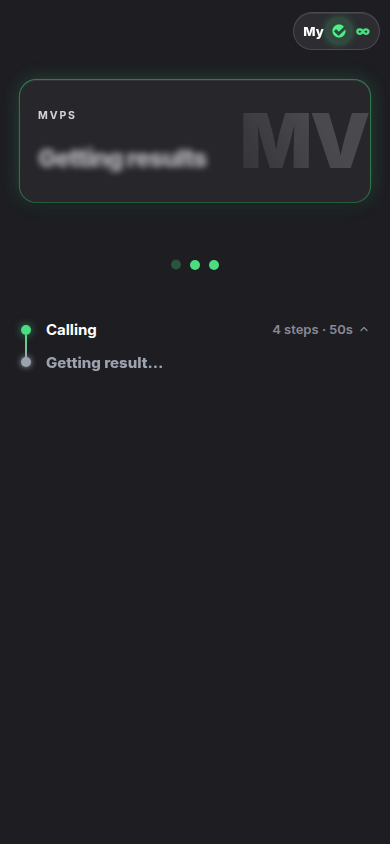
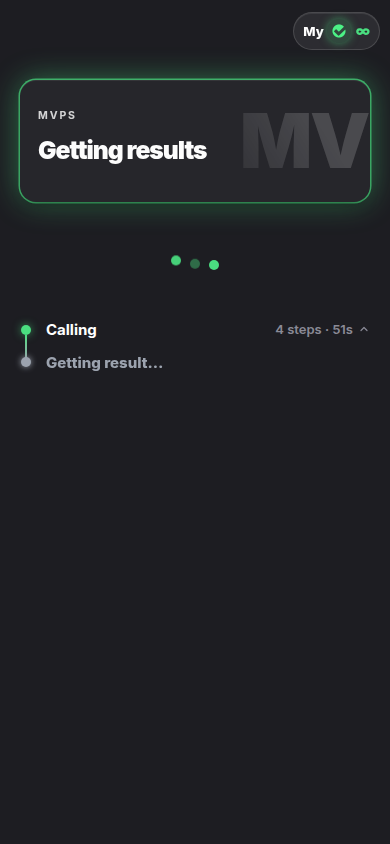
STATE: the timing fix, measured before and after against the robot's own note
Claude-Session: https://claude.ai/code/session_01DDM9bfXsiGGeTmLMgikF6p

diff --git a/docs/STATE.md b/docs/STATE.md
@@ -10,7 +10,7 @@ git. Last updated: 2026-08-06 (the hold fault he found is fixed and on staging; 
 ## The Activity report is honest now (08-06, ON STAGING, driven live). One press on a bar picks that day and stays there. Pressing the same bar again used to clear the day and quietly swap the four counts from that one day to the whole week, which is where your 22 in stock came from, and the green bar vanished with it. The checks listed under the counts are that day's own now, up to six, instead of the same newest checks showing on every day. Store logos there were broken too and the logo chat fixed that separately. **Your move: open My checks, Activity, and tap a few days.**
 ## THE TESTING SHEET DRAWS A CHECK IN THE ORDER IT REALLY HAPPENED (08-06 PM, staging + Admin). The steps and the spoken lines were two separate lists, both rounded off to whole seconds, and the page glued them together by comparing those rounded numbers. That is why three things six seconds apart all showed at 58 seconds, and why Delta's recording drew under the Staff line that answered it. Both lists have always been stamped on one clock down to the millisecond and the part that saves a check was throwing that away. Nothing is thrown away now, and the page puts every row in order once, off that one clock. Proven on the real Admin at your phone's width: every row at or after the row above it.
 - **The other four off your screens, all fixed and driven:** the first row is the test's own name from your locked cards ("Test: Transfer: Charlie requested" on the check I dialed), never the robot's scene name · the status on the screen is now the status the check was filed with, in your own words from the site the check came from, which is what "Nobody answered" over a check the store hung up on really was: Admin reads its status words from the real site and the check came from staging, where three of your statuses do not exist on the real site yet · "Customer charged" is read off the charge stamp on the check itself, and the tool that reads a check's record was never sent that stamp, so it printed "not charged" on every check ever · the status circle is back on the rail at 390px, every marker measured onto one center in a real browser.
-- **PROVEN ON CHECK 345, scene 10, dialed 08-06 7:43 PM:** every row at or after the row above it, row one the card's name, "Staff hung up" matching the record, "Customer not charged" on a check nothing was billed for, all 27 markers on one center. **Untouched on purpose: the scorecard rows that grade Charlie.** **AND THE GREETING'S OWN TIME IS FIXED ON YOUR WORD (08-06 PM):** it drew at 1 second, above the row saying the line was answered at 2 seconds. We do backdate Staff's greeting to when their voice really started, which is right, but that was counted from the moment the audio opened while a check counts from the moment it was placed, about two seconds earlier. Two different starting points, so every greeting was written down two seconds early, and on a store with a long menu it would have been worse. The moment is handed over whole now and the record does its own arithmetic, so nothing can be filed against somebody else's stopwatch. **08-06: the new voice work is wired into mapping and on staging.** A mapping check now sets Charlie up the same way a customer check does, and it does everything a customer check does the moment Staff answer: Delta asks the question, the moment is written down, and the check cannot sit paying for silence. Before this Delta never played on a mapping check, so Charlie had to open cold and speak first, which is the wait you heard on the Fun store check. NOT yet run against a real store: mapping CVS is the next chat's first job.
+- **PROVEN ON CHECK 345, scene 10, dialed 08-06 7:43 PM:** every row at or after the row above it, row one the card's name, "Staff hung up" matching the record, "Customer not charged" on a check nothing was billed for, all 27 markers on one center. **Untouched on purpose: the scorecard rows that grade Charlie.** **AND THE GREETING'S OWN TIME IS FIXED ON YOUR WORD (08-06 PM):** it drew at 1 second, above the row saying the line was answered at 2 seconds. We do backdate Staff's greeting to when their voice really started, which is right, but that was counted from the moment the audio opened while a check counts from the moment it was placed, about two seconds earlier. Two different starting points, so every greeting was written down two seconds early, and on a store with a long menu it would have been worse. The moment is handed over whole now and the record does its own arithmetic, so nothing can be filed against somebody else's stopwatch. **AND EVERY OTHER LINE WAS LATE, which is the one that matters for stitching a check back together.** A line was written down at the moment its WORDS reached us, and words reach us after the sentence has been spoken and typed out, worst of all after a hold, where their audio waits for Charlie to come back before anybody types it. Measured against the robot store's own note of what it said and when, on check 346: an ordinary line landed 3.3 seconds late and the two lines after a hold landed 6.1 seconds late. We already listen to their voice on every scrap of audio for the meter, so we now keep the moment their talking starts and file the line there. Re-measured on checks 347 and 348: every line lands within about a second of when it was really said, and on check 348 their answer draws just before the row that says they came back, which is the truth, since their voice is what ended the hold. **08-06: the new voice work is wired into mapping and on staging.** A mapping check now sets Charlie up the same way a customer check does, and it does everything a customer check does the moment Staff answer: Delta asks the question, the moment is written down, and the check cannot sit paying for silence. Before this Delta never played on a mapping check, so Charlie had to open cold and speak first, which is the wait you heard on the Fun store check. NOT yet run against a real store: mapping CVS is the next chat's first job.
 ## The support chat is being tested like the robot store tests checks (08-05/06). A robot customer runs real conversations against the staging chat and every reply is scored out of 10: `docs/specs/support-chatbot-testing/SCORECARD.md`. Round 1 scored 250 out of 270. Fixed and live: asking for a person used to answer "tap Help in the footer", which reopens that same chat, so nobody could reach a human; the chat said an endless hold is free when your ruling charges it, fixed in the chat AND in six pages of the book on your go; the Spanish result screen said "Sin cargo" on three statuses we charge. Round 2 signs in and uses the 291 checks already on your account, placing none, and found FIVE money bugs, all fixed: a perfect check that answered in 24 seconds was refundable on request, a hold was refunded so we charged and refunded in one breath, and twice the chat answered about a different check than the one you opened it from. **Your move: GameStop. You say it should not be callable and the store list serves it as callable, so the chat says yes to it.**
 ## The reply lock is on staging, the cap is 25 lines now, and a piece of work you ask for is not capped at all (08-06). **Replies were scrunching words in at 15 lines, so rule 9 is 25.** New rule 11: when you ask to be handed the work itself, every test and what it proves, a full list, exact wording, it prints IN the chat, in full, however long that runs, and never as a pointer to a doc. It only opens on a message where you asked; an ordinary long-winded reply still gets cut to 25. Proven both ways: a 30 line reply to a plain question is refused, and 28 tests asked for by name came back whole. **Speed: the slow replies were slow for one dumb reason.** After the writer rewrites, every number in the answer must survive, and the check was counting punctuation as part of the number, so "6." at the end of a sentence and the 08 in a date read as dropped and forced a second full rewrite. Fixed, and the second rewrite no longer runs on the deep thinking setting: measured on real drafts, 6.4s against 41.9s for the identical verdict. A clean reply is about 12 seconds now, one that needs the second rewrite about 20, worst case near a minute, and on your word an answer of 4 lines or less (was 2) skips the writer completely and is instant. **A chat opened before this merge is still running the old slow copy until you send it "pull staging".** Also live: the writer answers about 5x faster than 08-05, it can no longer hand back nothing (the "OK" bug), and it reads its own chat's message instead of whichever was newest. **Your move: none.**
 ## GitHub's mark on staging is GREEN again (08-05, verified job by job on commit 3a0dd587: tests, secret scan, doc sizes all passed; the whole test run finished in 3 minutes where it used to hang 25). Two real causes, both fixed: the secret scan's 29 hits are all old history or third party PUBLIC keys in a docs snapshot, now fingerprinted in `.gitleaksignore` (no secret values; a planted token still fails the scan, proven). And the test run hung because three suites shared port 8798 while one waited on a curl with no time limit: qa-pages moved to 8790, its waits capped, EVERY suite now bounded at 420s and named if it stalls, and `kill-tests.sh` no longer shoots its own caller. **Owner's move: none.**
